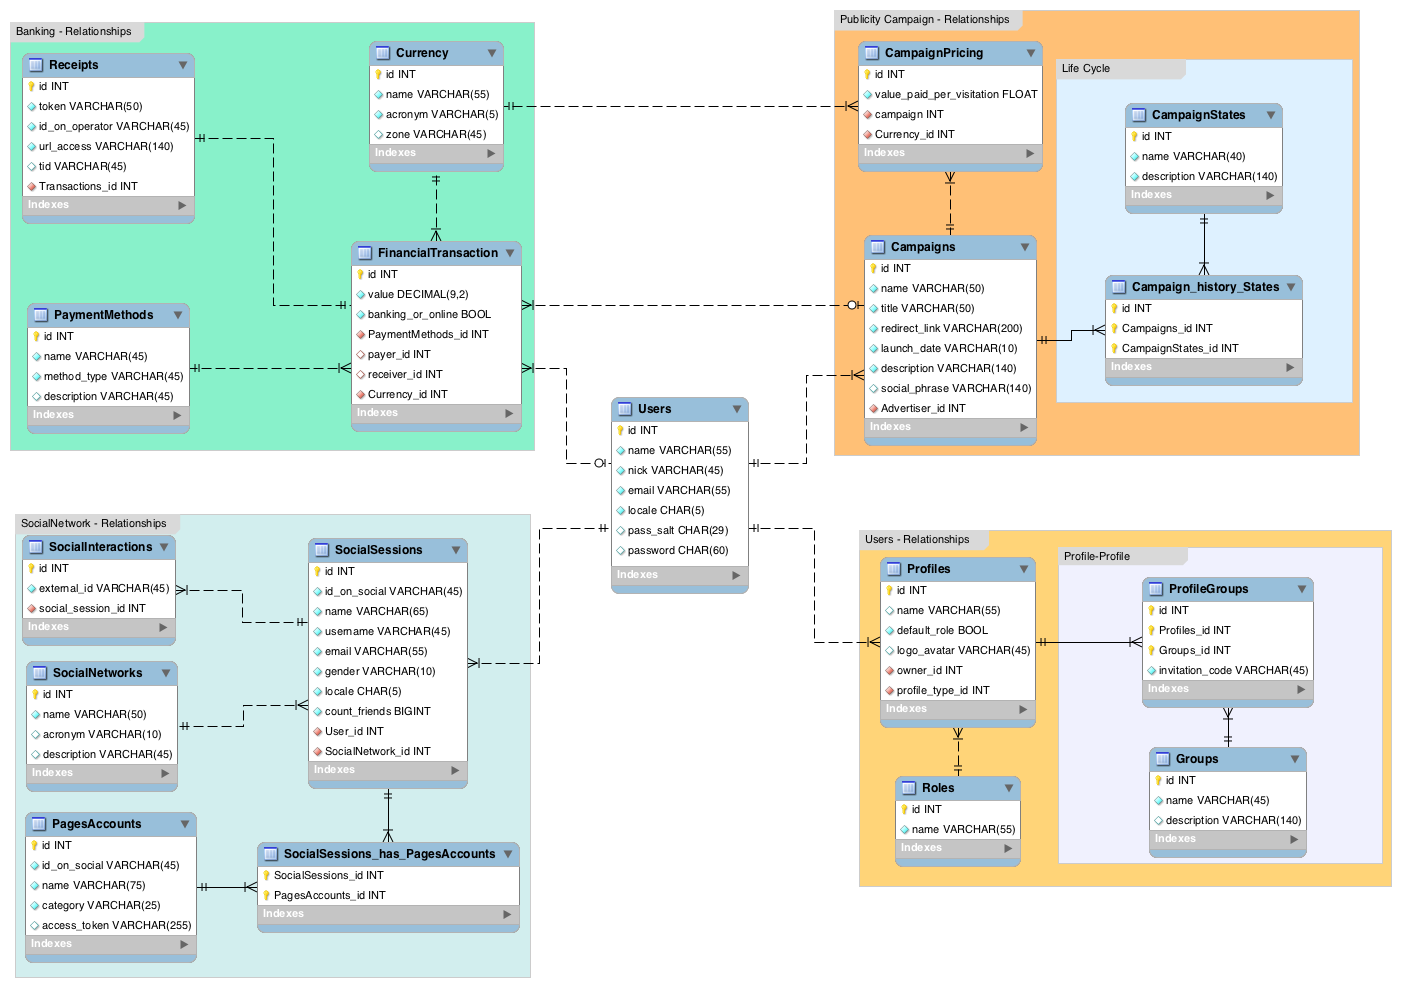
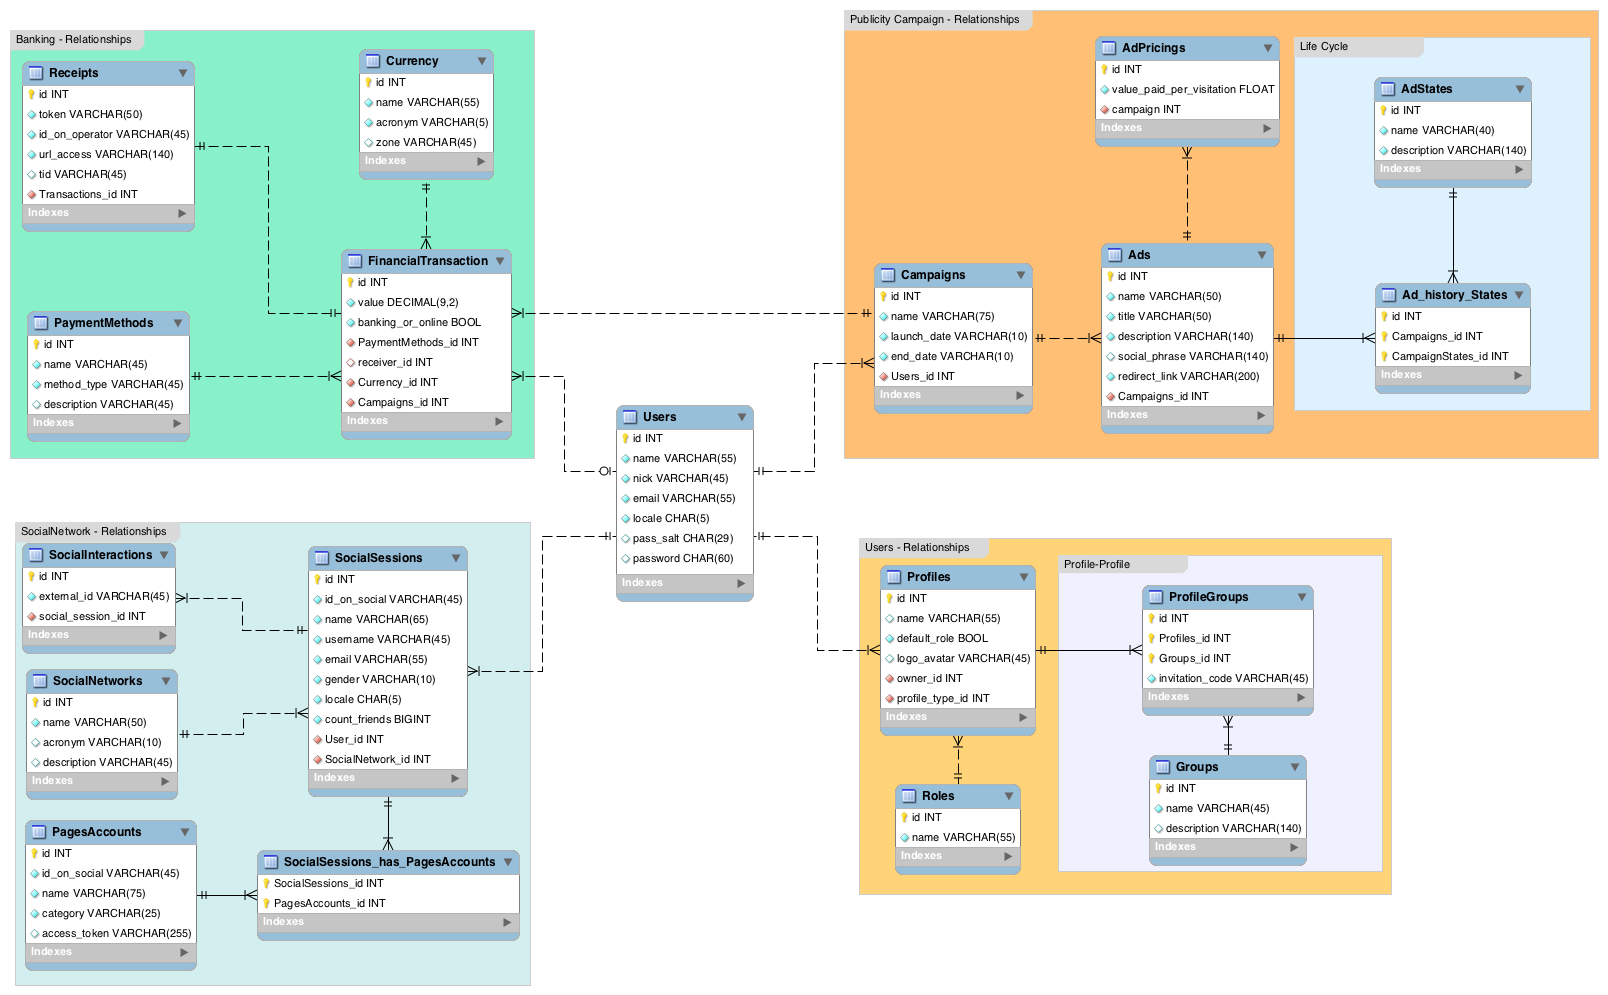
Ads model attrs UPDATED

diff --git a/db/schema.rb b/db/schema.rb
@@ -30,7 +30,6 @@ ActiveRecord::Schema.define(version: 20140723050358) do
   create_table "ads", force: true do |t|
     t.string   "name",                limit: 50,  null: false
     t.string   "title",               limit: 50,  null: false
-    t.string   "launch_date",         limit: 10,  null: false
     t.string   "description",         limit: 140, null: false
     t.string   "social_phrase",       limit: 140
     t.string   "redirect_link",       limit: 200, null: false
@@ -46,7 +45,10 @@ ActiveRecord::Schema.define(version: 20140723050358) do
   add_index "ads", ["advertiser_id"], name: "index_ads_on_advertiser_id", using: :btree
 
   create_table "campaigns", force: true do |t|
-    t.string   "name"
+    t.string   "name",        limit: 75, null: false
+    t.string   "launch_date", limit: 10, null: false
+    t.string   "end_date",    limit: 10, null: false
+    t.integer  "user_id"
     t.datetime "created_at"
     t.datetime "updated_at"
   end
